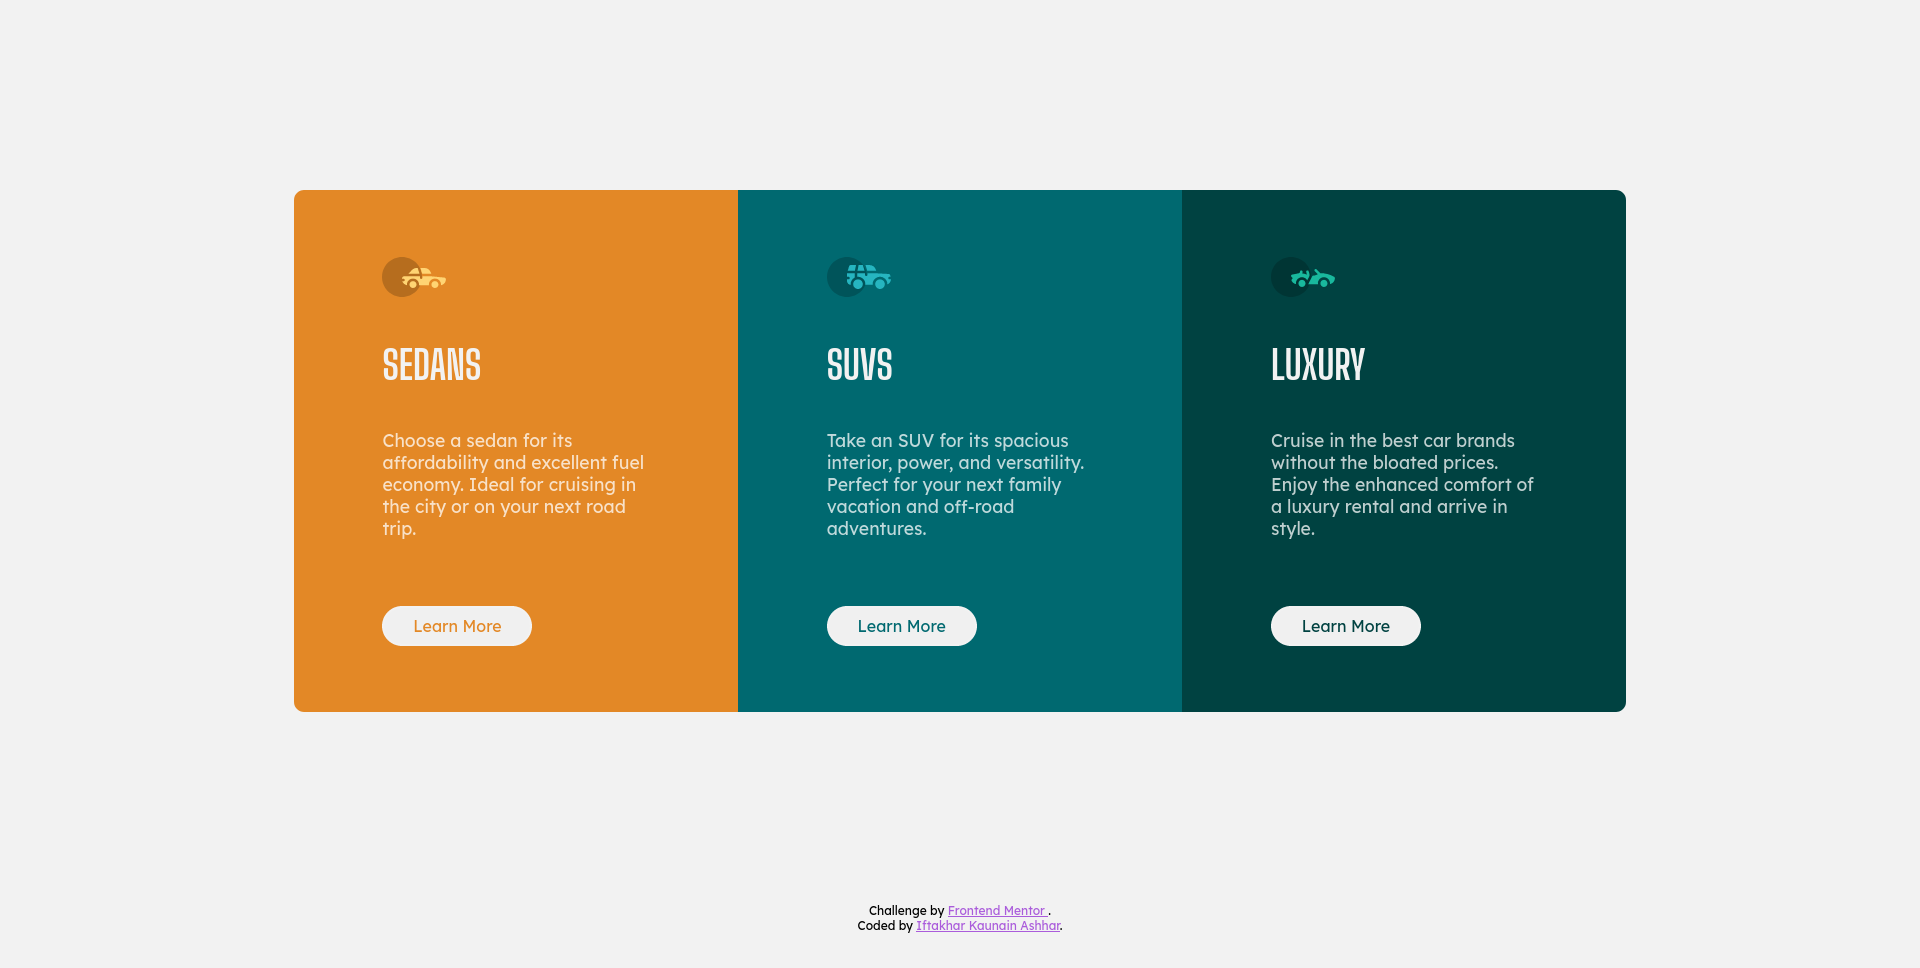
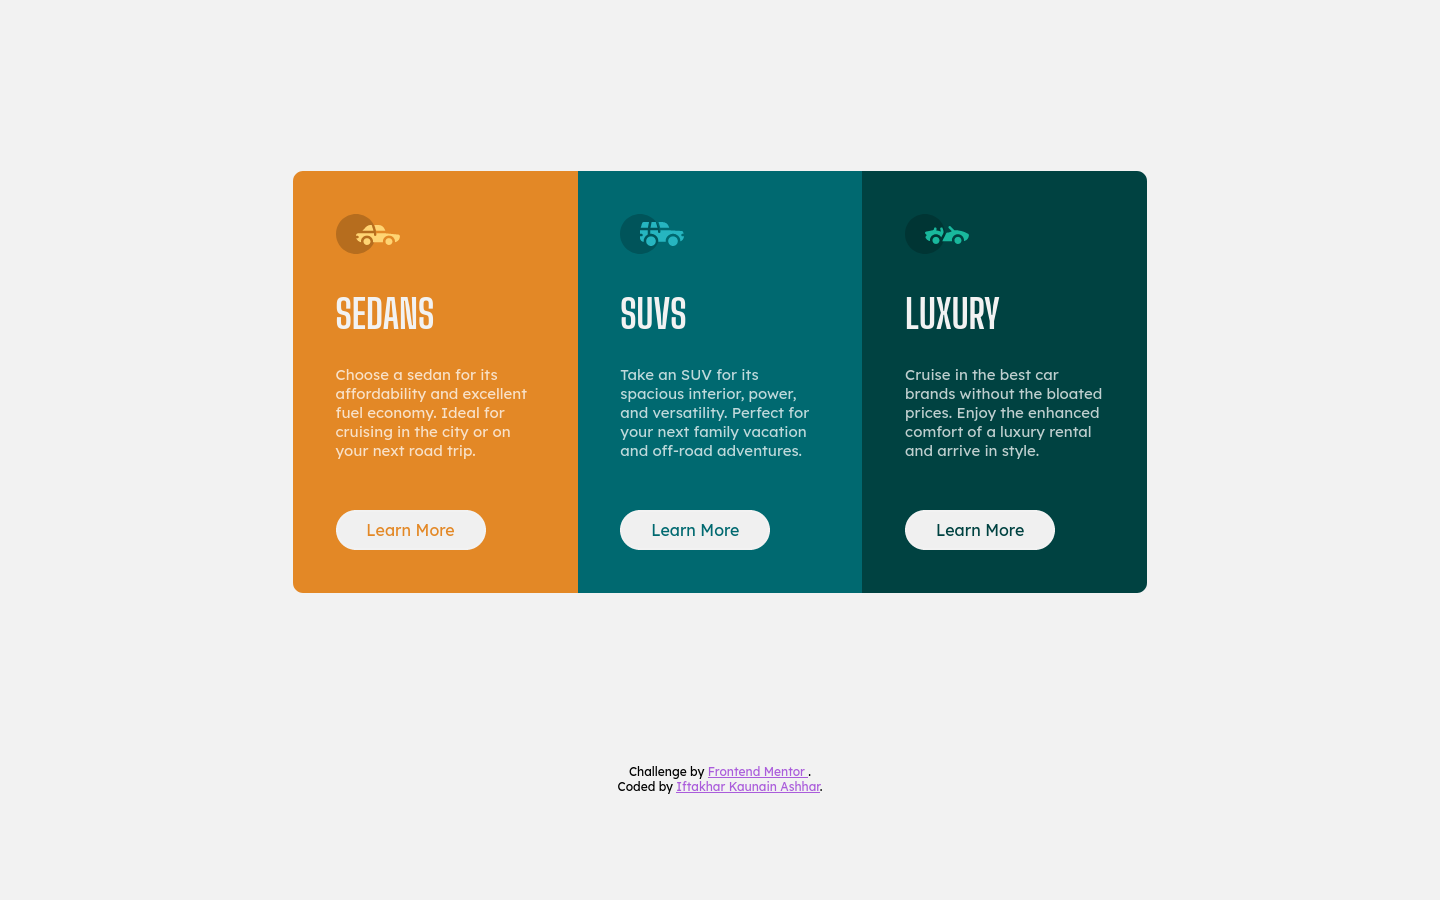
Update

Changed region(s): [[0.125, 0.1867, 0.875, 0.7467], [0.4375, 0.84, 0.5625, 0.9022], [0.4375, 0.9333, 0.5625, 0.9644]]

diff --git a/index.html b/index.html
@@ -14,11 +14,11 @@
 		<title>Frontend Mentor | 3-column preview card component</title>
 	</head>
 	<body>
-		<div class="main">
+		<main>
 			<div class="sedans">
-				<img src="./images/icon-sedans.svg" alt="" />
-				<h1>Sedans</h1>
-				<p>
+				<img src="./images/icon-sedans.svg" alt="Sedans" class="icon" />
+				<h1 class="headings">Sedans</h1>
+				<p class="content">
 					Choose a sedan for its affordability and excellent fuel
 					economy. Ideal for cruising in the city or on your next road
 					trip.
@@ -26,9 +26,9 @@
 				<button class="learnmore">Learn More</button>
 			</div>
 			<div class="suv">
-				<img src="./images/icon-suvs.svg" alt="" />
-				<h1>SUVs</h1>
-				<p>
+				<img src="./images/icon-suvs.svg" alt="SUVs" class="icon" />
+				<h1 class="headings">SUVs</h1>
+				<p class="content">
 					Take an SUV for its spacious interior, power, and
 					versatility. Perfect for your next family vacation and
 					off-road adventures.
@@ -36,17 +36,17 @@
 				<button class="learnmore">Learn More</button>
 			</div>
 			<div class="luxury">
-				<img src="./images/icon-luxury.svg" alt="" />
-				<h1>Luxury</h1>
-				<p>
+				<img src="./images/icon-luxury.svg" alt="Luxury" class="icon" />
+				<h1 class="headings">Luxury</h1>
+				<p class="content">
 					Cruise in the best car brands without the bloated prices.
 					Enjoy the enhanced comfort of a luxury rental and arrive in
 					style.
 				</p>
 				<button class="learnmore">Learn More</button>
 			</div>
-		</div>
-		<div class="attribution">
+		</main>
+		<footer class="attribution">
 			Challenge by
 			<a
 				href="https://www.frontendmentor.io?ref=challenge"
@@ -56,6 +56,6 @@
 			>. <br />
 			Coded by
 			<a href="https://iftkhr.github.io/">Iftakhar Kaunain Ashhar</a>.
-		</div>
+		</footer>
 	</body>
 </html>

diff --git a/css/style.css b/css/style.css
@@ -4,25 +4,30 @@ body {
 	font-size: 15px;
 	background: hsl(0, 0%, 95%);
 }
-.main {
+main {
 	display: grid;
 	width: 90%;
+	max-width: 300px;
 	margin: 15% auto;
 }
-.main div {
+.sedans,
+.suv,
+.luxury {
+	display: grid;
+	grid-template-rows: repeat(4, auto);
 	padding: 15%;
 }
-.main p {
+.content {
 	font-family: 'Lexend Deca', sans-serif;
 	color: hsla(0, 0%, 100%, 0.75);
 }
-.main h1 {
+.headings {
 	font-family: 'Big Shoulders Display', cursive;
 	color: hsl(0, 0%, 95%);
 	text-transform: uppercase;
 	font-size: 2.5rem;
 }
-.main img {
+.icon {
 	margin-bottom: 5%;
 }
 .sedans {
@@ -36,16 +41,16 @@ body {
 	background: hsl(179, 100%, 13%);
 	border-radius: 0 0 10px 10px;
 }
-.sedans button {
+.sedans .learnmore {
 	color: hsl(31, 77%, 52%);
 }
-.suv button {
+.suv .learnmore {
 	color: hsl(184, 100%, 22%);
 }
-.luxury button {
+.luxury .learnmore {
 	color: hsl(179, 100%, 13%);
 }
-button {
+.learnmore {
 	font-family: 'Lexend Deca', sans-serif;
 	border: hsl(0, 0%, 95%) solid 2px;
 	border-radius: 30px;
@@ -53,8 +58,9 @@ button {
 	width: 150px;
 	margin-top: 10%;
 	font-size: 1rem;
+	justify-self: baseline;
 }
-button:hover {
+.learnmore:hover {
 	background: transparent;
 	color: hsl(0, 0%, 95%);
 	cursor: pointer;
@@ -69,18 +75,15 @@ a {
 	color: hsl(277, 64%, 61%);
 }
 
-@media all and (min-width: 1440px) {
-	.main {
-		margin: 10% auto;
-		width: 70%;
+@media all and (min-width: 1024px) {
+	main {
+		margin: 12% auto;
+		width: 60%;
 		grid-template-columns: repeat(3, auto);
+		max-width: none;
 	}
-	.main div {
-		padding: 15% 20%;
-	}
-	.main p {
-		margin: 15% auto;
-		font-size: 1.1rem;
+	.content {
+		margin: 0 auto 15% auto;
 	}
 	.sedans {
 		border-radius: 10px 0 0 10px;
